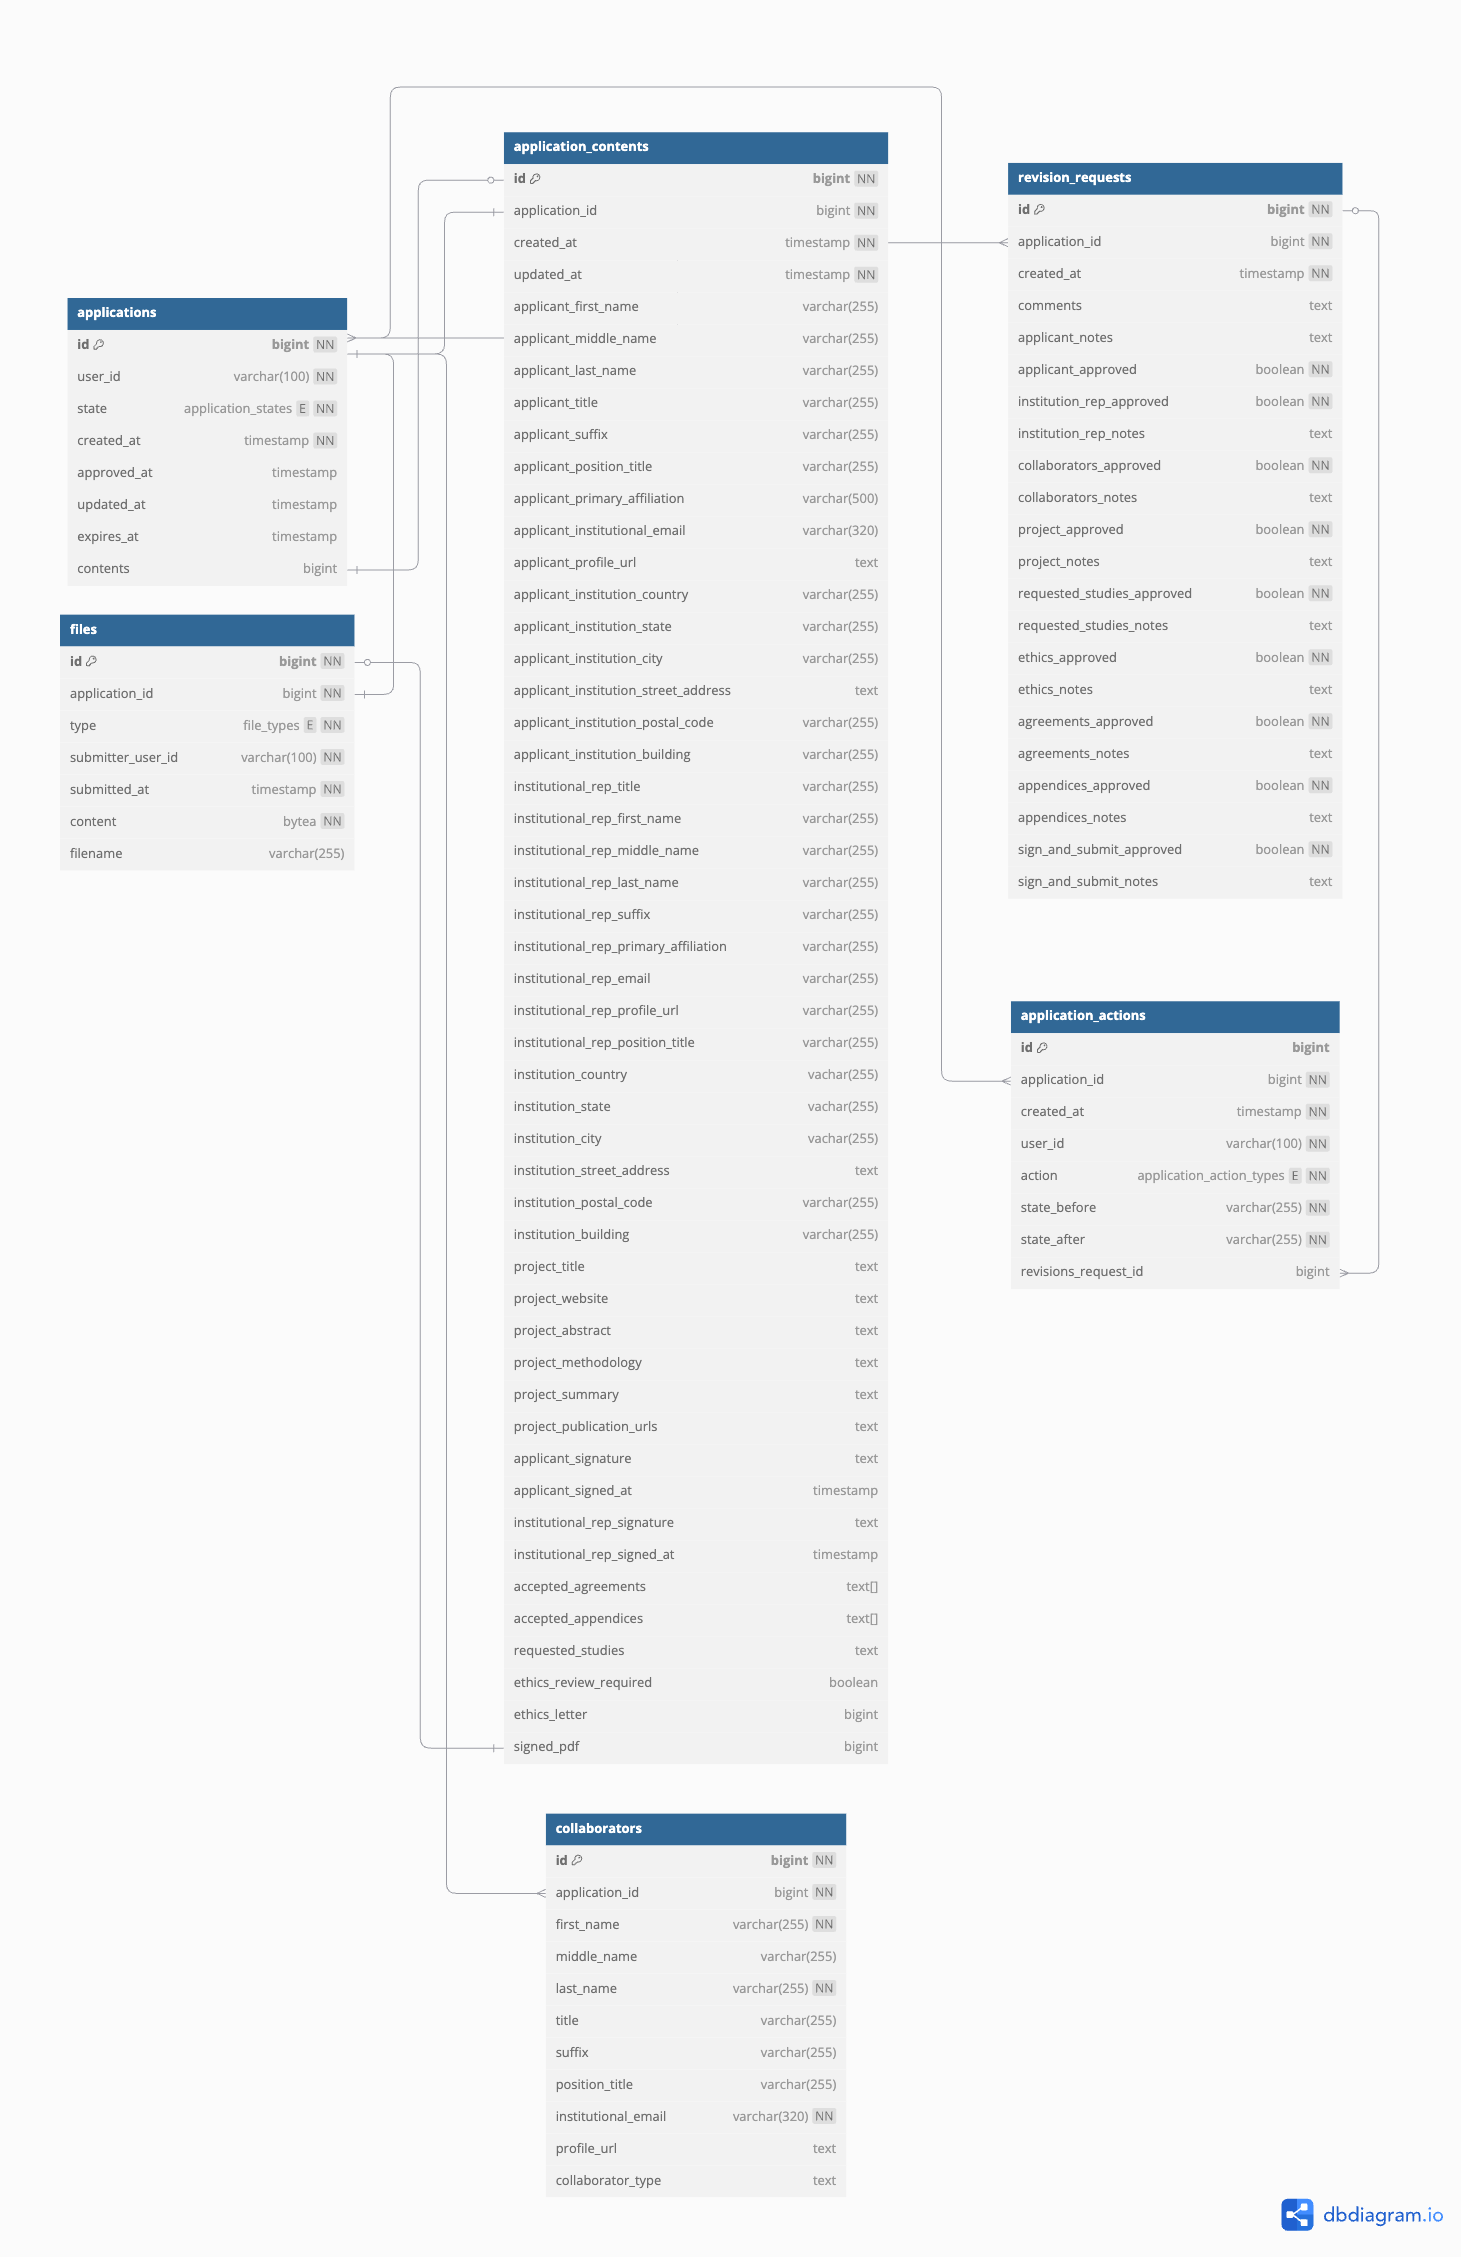
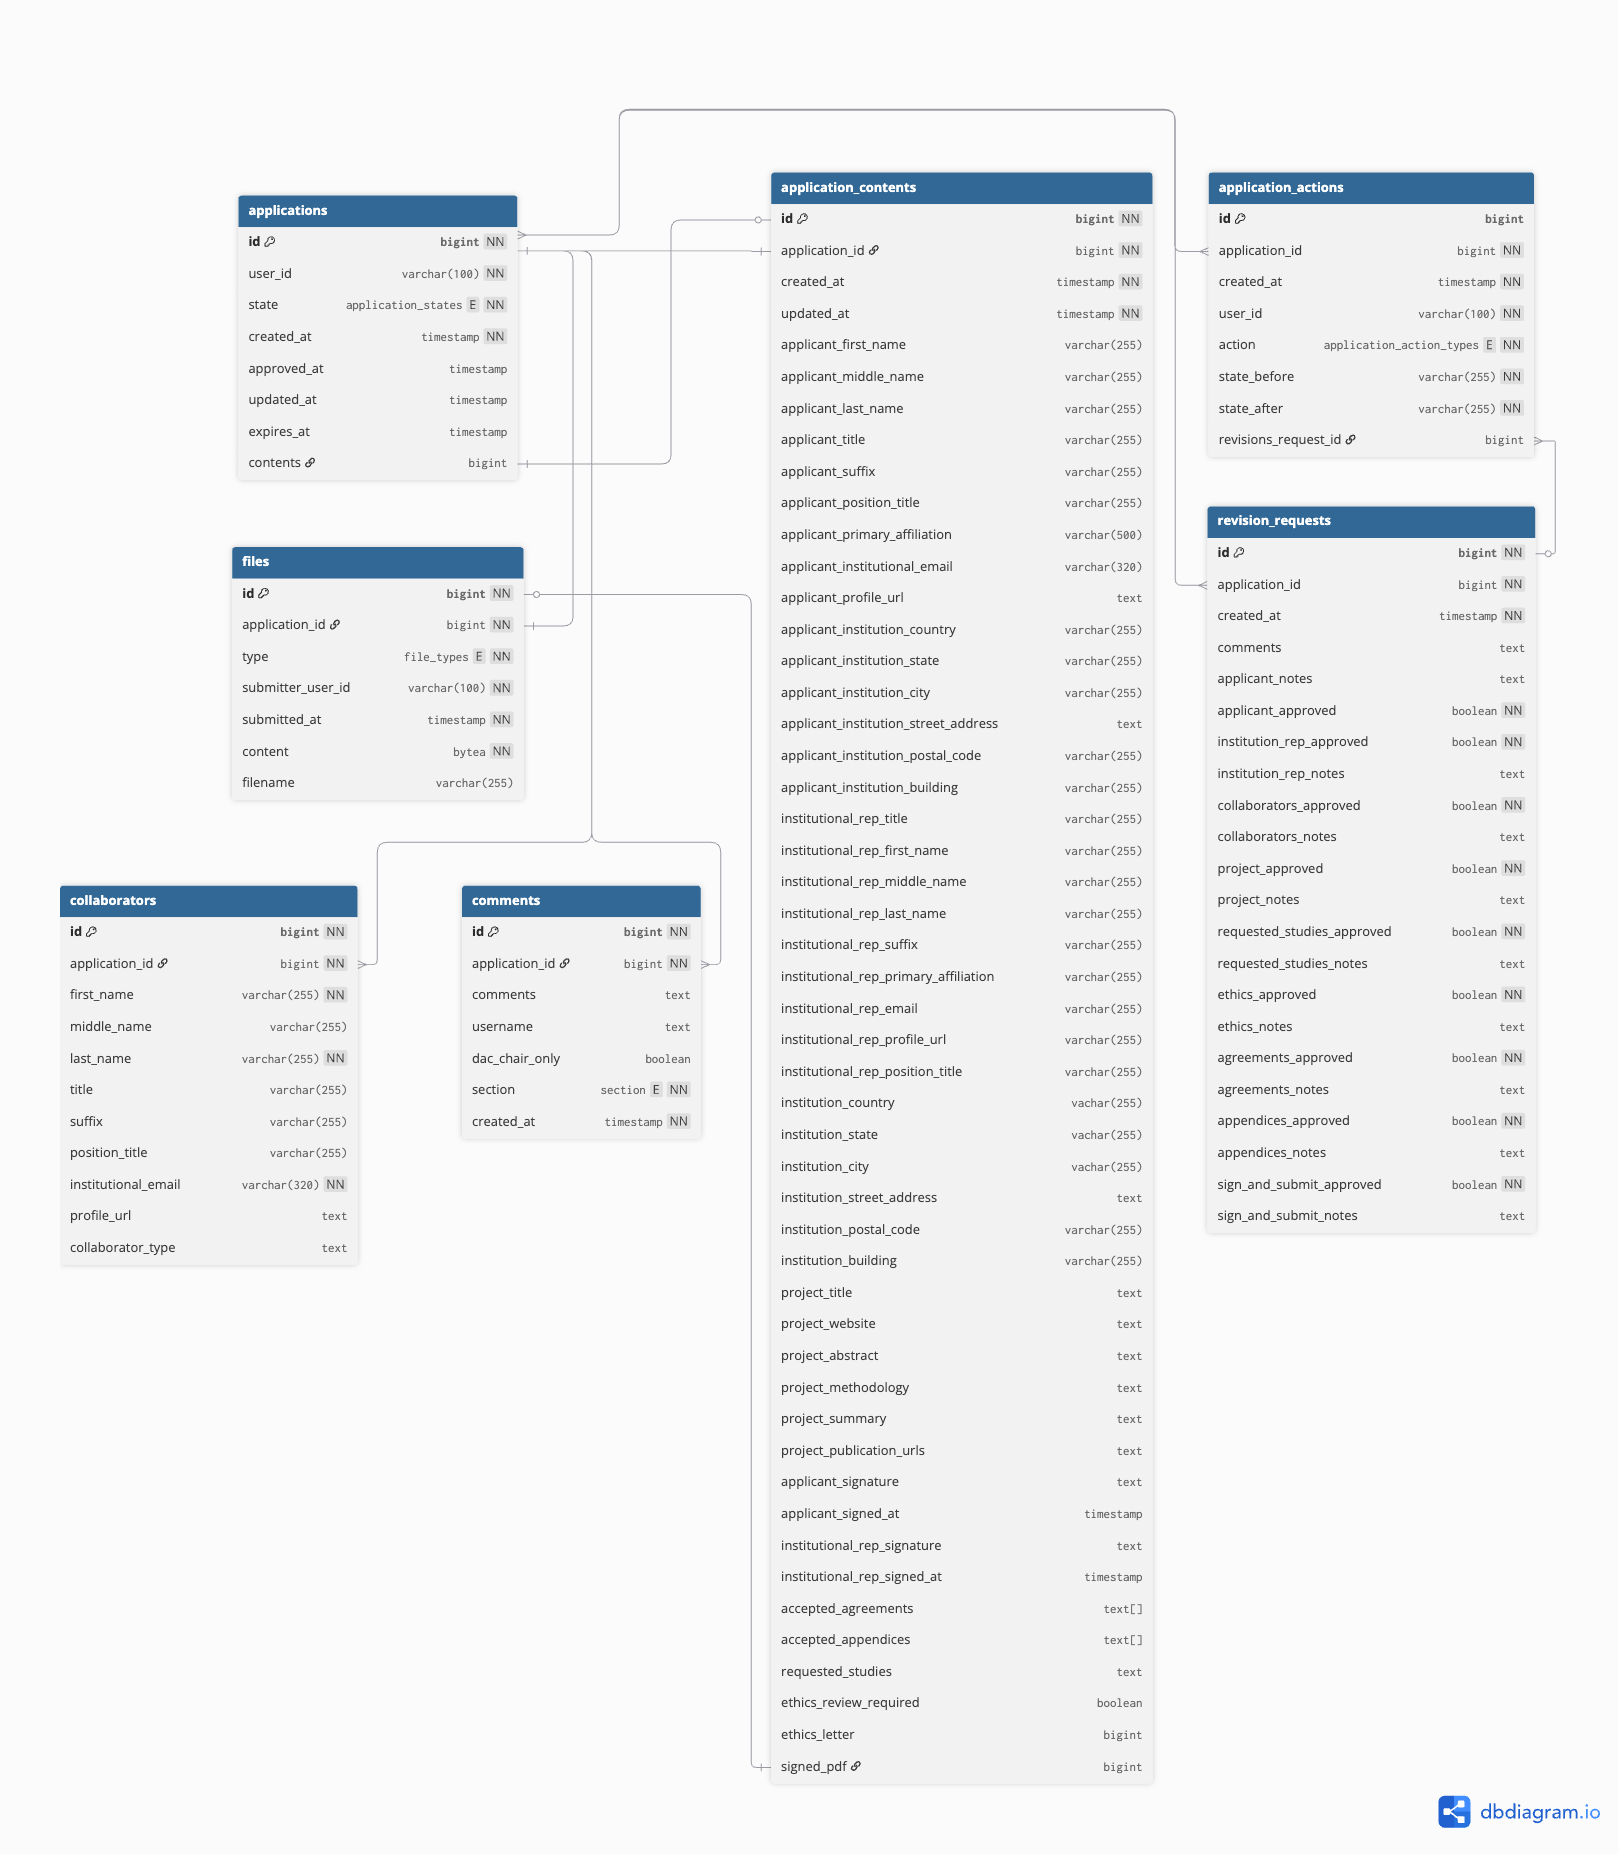
feat(comments): comments db changes

diff --git a/apps/api/src/db/schemas/comments.ts b/apps/api/src/db/schemas/comments.ts
@@ -1,0 +1,52 @@
+/*
+ * Copyright (c) 2025 The Ontario Institute for Cancer Research. All rights reserved
+ *
+ * This program and the accompanying materials are made available under the terms of
+ * the GNU Affero General Public License v3.0. You should have received a copy of the
+ * GNU Affero General Public License along with this program.
+ *  If not, see <http://www.gnu.org/licenses/>.
+ *
+ * THIS SOFTWARE IS PROVIDED BY THE COPYRIGHT HOLDERS AND CONTRIBUTORS "AS IS" AND ANY
+ * EXPRESS OR IMPLIED WARRANTIES, INCLUDING, BUT NOT LIMITED TO, THE IMPLIED WARRANTIES
+ * OF MERCHANTABILITY AND FITNESS FOR A PARTICULAR PURPOSE ARE DISCLAIMED. IN NO EVENT
+ * SHALL THE COPYRIGHT HOLDER OR CONTRIBUTORS BE LIABLE FOR ANY DIRECT, INDIRECT,
+ * INCIDENTAL, SPECIAL, EXEMPLARY, OR CONSEQUENTIAL DAMAGES (INCLUDING, BUT NOT LIMITED
+ * TO, PROCUREMENT OF SUBSTITUTE GOODS OR SERVICES; LOSS OF USE, DATA, OR PROFITS;
+ * OR BUSINESS INTERRUPTION) HOWEVER CAUSED AND ON ANY THEORY OF LIABILITY, WHETHER
+ * IN CONTRACT, STRICT LIABILITY, OR TORT (INCLUDING NEGLIGENCE OR OTHERWISE) ARISING IN
+ * ANY WAY OUT OF THE USE OF THIS SOFTWARE, EVEN IF ADVISED OF THE POSSIBILITY OF SUCH DAMAGE.
+ */
+
+import { relations } from 'drizzle-orm';
+import { bigint, boolean, pgEnum, pgTable, text, timestamp, varchar } from 'drizzle-orm/pg-core';
+import { applications } from './applications.ts';
+
+export const sectionsEnum = pgEnum('sections', [
+	'INTRO',
+	'APPLICANT',
+	'INSTITUTIONAL',
+	'COLLABORATORS',
+	'PROJECT',
+	'STUDY',
+	'ETHICS',
+	'AGREEMENT',
+	'APPENDICES',
+	'SIGN',
+]);
+
+export const comments = pgTable('comments', {
+	id: bigint({ mode: 'number' }).primaryKey().generatedAlwaysAsIdentity(),
+	application_id: bigint({ mode: 'number' }).notNull(),
+	comments: text().notNull(),
+	username: varchar({ length: 255 }).notNull(),
+	dac_chair_only: boolean().notNull(),
+	section: sectionsEnum().notNull(),
+	created_at: timestamp().notNull().defaultNow(),
+});
+
+export const commentsRelations = relations(comments, ({ one }) => ({
+	application_id: one(applications, {
+		fields: [comments.application_id],
+		references: [applications.id],
+	}),
+}));
